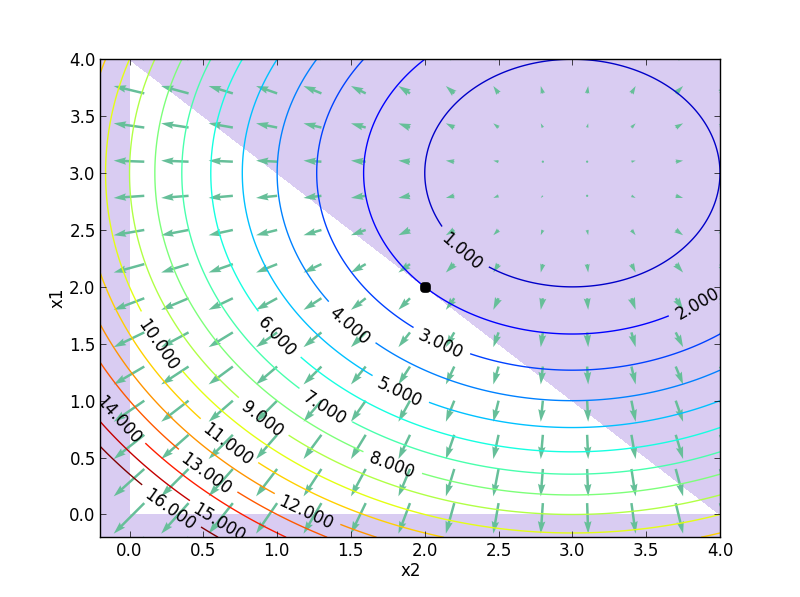
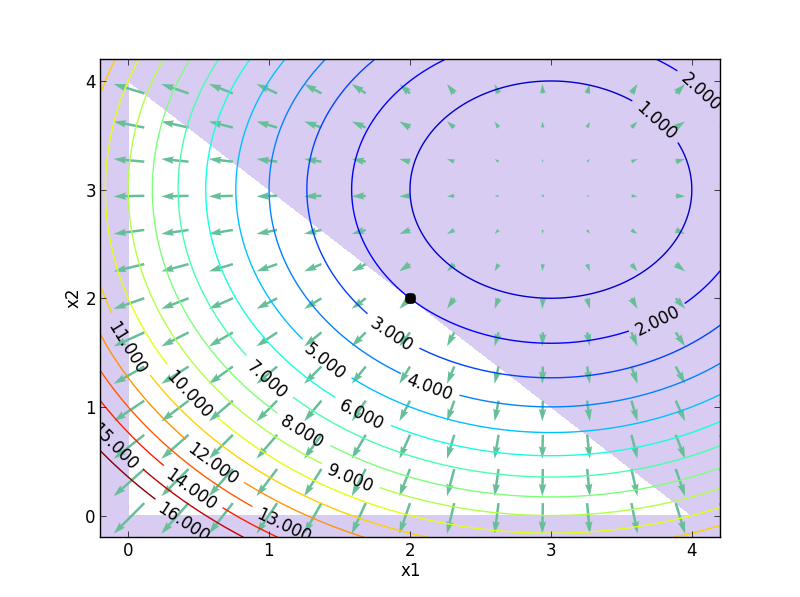
Changed plot variables orientation. Added function to plot optimum condition.

diff --git a/src/assignments/first_assignment.py b/src/assignments/first_assignment.py
@@ -1,12 +1,15 @@
 from matplotlib import pyplot as pyplot
-from numpy import linspace
+from numpy import linspace, array, zeros, dot
+from scipy.optimize import fsolve
 
-from optimization.graphical_optimization import gradientOf2dFunction, graphicalOptimization
+from calculus import gradient
+from optimization.graphical_optimization import gradientOf2dFunction, graphicalOptimization, \
+    plotOptimalityConditionAt
 
 
 def exercise_3_1():
-    x1_domain = linspace(-0.2, 4.0, 300)
-    x2_domain = linspace(-0.2, 4.0, 300)
+    x1_domain = linspace(-0.2, 4.2, 300)
+    x2_domain = linspace(-0.2, 4.2, 300)
     
     def f(x1, x2):
         return (x1-3.)**2. +(x2-3.)**2.
@@ -21,7 +24,7 @@ def exercise_3_1():
         return -x2 
     
     graphicalOptimization(x1_domain, x2_domain, f, [g1, g2, g3], [], levels=linspace(0,16,17))
-    gradientOf2dFunction(x1_domain, x2_domain, f)
+    plotOptimalityConditionAt(2.0, 2.0, x1_domain, x2_domain, f, curveDirection=[0.0, -1.0])
     pyplot.plot([2.0], [2.0], 'k.', markersize=15.0)
     pyplot.show()
     
@@ -49,14 +52,55 @@ def exercise_3_8():
 def exercise_3_13():
     x1_domain = linspace(-6.0, 6.0, 100)
     x2_domain = linspace(-6.0, 6.0, 100)
-    
+     
     def f(x1, x2):
         return 9.*x1**2. + 13.*x2**2. + 18.*x1*x2 - 4.
     def h1(x1, x2):
         return x1**2. + x2**2. + 2.*x1 - 16
-            
+             
     graphicalOptimization(x1_domain, x2_domain, f, [], [h1], levels=[5,15,50,100,200,300,450,600])
     gradientOf2dFunction(x1_domain, x2_domain, f)
+    pyplot.show()
+
+     
+def exercise_3_21():
+    x1_domain = linspace(-6.0, 50.0, 300)
+    x2_domain = linspace(-6.0, 60.0, 300)
+    
+    M = 8000.0
+    sigma_a = 0.8
+    V = 150.0
+    tau_a = 0.3
+    
+    
+    def f(b, d):
+        return b * d
+    
+    def g1(b, d):
+        return 6.0 * M - (sigma_a * b * d**2.0)
+    
+    def g2(b, d):
+        return 3.0 * V - (tau_a * 2.0 * b * d)
+    
+    def g3(b, d):
+        return d - 2.0 * b
+    
+    def g4(b, d):
+        return -b
+    
+    def g5(b, d):
+        return -d
+            
+    graphicalOptimization(
+        x1_domain,
+        x2_domain,
+        f,
+        [g1,g2,g3,g4,g5],
+        [g1,g2,g3,g4,g5],
+        levels=[200.0, 400.0, 600.0, 800, 1000.0, 1216.0, 1500.0, 1800.0, 2100.0, 2400.0]
+    )
+    gradientOf2dFunction(x1_domain, x2_domain, f)
+    pyplot.plot([24.66], [24.66*2], 'k.', markersize=15.0)
     pyplot.show()
     
     

diff --git a/src/optimization/graphical_optimization.py b/src/optimization/graphical_optimization.py
@@ -1,5 +1,5 @@
 from matplotlib import pyplot as pyplot
-from numpy import zeros, meshgrid, linspace
+from numpy import zeros, meshgrid, linspace, dot
 from calculus import gradient
 
 # todo: Replace these for a nice enum python implementation
@@ -34,7 +34,7 @@ def contourTwoVariablefunction(x1_domain, x2_domain, f, functionType, levels=Non
             f_image[i,j] = f(x1, x2)
     
     if functionType == INEQUALITY_CONSTRAINT:
-        cs = pyplot.contourf(X1, X2,f_image, [0,max(max(x1_domain), max(x2_domain))], colors=((0.85,0.8,0.95,),))
+        cs = pyplot.contourf(X1, X2,f_image, [0,1.0e300], colors=((0.85,0.8,0.95,),))
     elif functionType == EQUALITY_CONSTRAINT:
         cs = pyplot.contour(X1, X2,f_image, [0], linewidths=2.0)
     elif functionType == OBJECTIVE_FUNCTION:
@@ -80,4 +80,30 @@ def gradientOf2dFunction(x1_domain, x2_domain, f, eval_points=15):
             U[i,j] = gradient(ff, [x,y] )[0]
             V[i,j] = gradient(ff, [x,y] )[1]
     return pyplot.quiver(X1, X2, U,V, color=((0.4,0.75,0.6)))
+
+
+def plotOptimalityConditionAt(x1, x2, x1_domain, x2_domain, f, curveDirection=None):
+    def ff(x):
+        return f(x[0], x[1])
+    
+    X1 = [x1_domain[0], x1, x1_domain[-1]]
+    X2 = [x2_domain[0], x2, x2_domain[-1]]
+    X1, X2 = meshgrid(X1, X2)
+    U = zeros((   len(X1), len(X2) ))
+    V = zeros((   len(X1), len(X2) ))
+    grad= gradient(ff, [x1,x2] )
+    grad_norm = dot(grad,grad)**0.5
+    grad = grad/grad_norm
+    print grad
+    U[1,1] = grad[0]
+    V[1,1] = grad[1]
+    pyplot.quiver(X1, X2, U,V, color=((0.48,0.57,0.74)), scale=0.1, scale_units='xy', angles='xy')
+    if curveDirection is not None:
+        dir_norm = dot(curveDirection, curveDirection)**0.5
+        curveDirection=curveDirection/dir_norm
+        SU = zeros((   len(X1), len(X2) ))
+        SV = zeros((   len(X1), len(X2) ))
+        SU[1,1] = curveDirection[0] 
+        SV[1,1] = curveDirection[1]
+        pyplot.quiver(X1, X2, SU,SV, color=((1.0,0.5,0.0)), scale=0.1, scale_units='xy', angles='xy')
     
